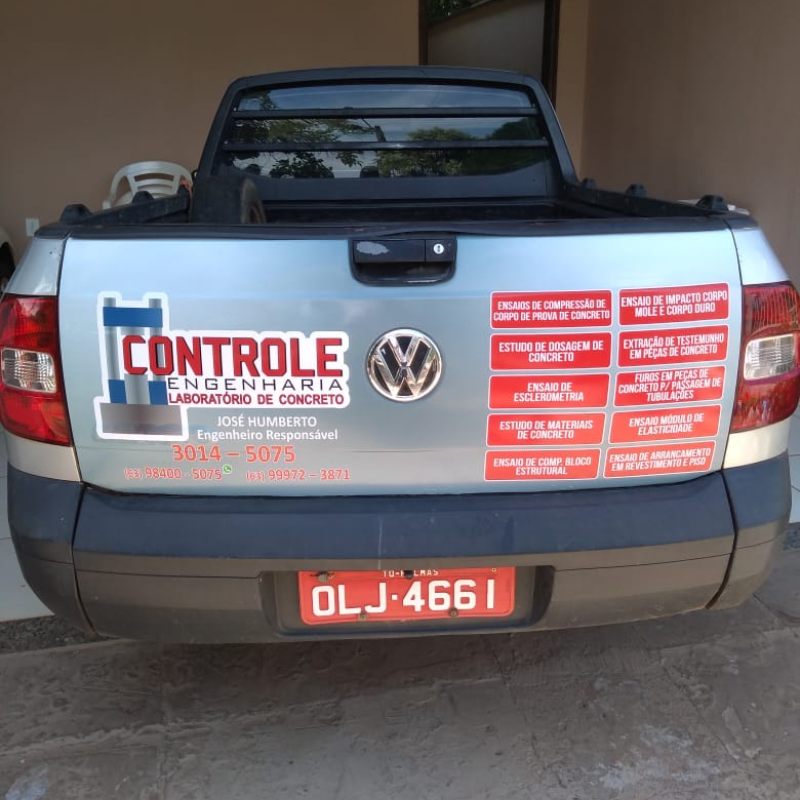
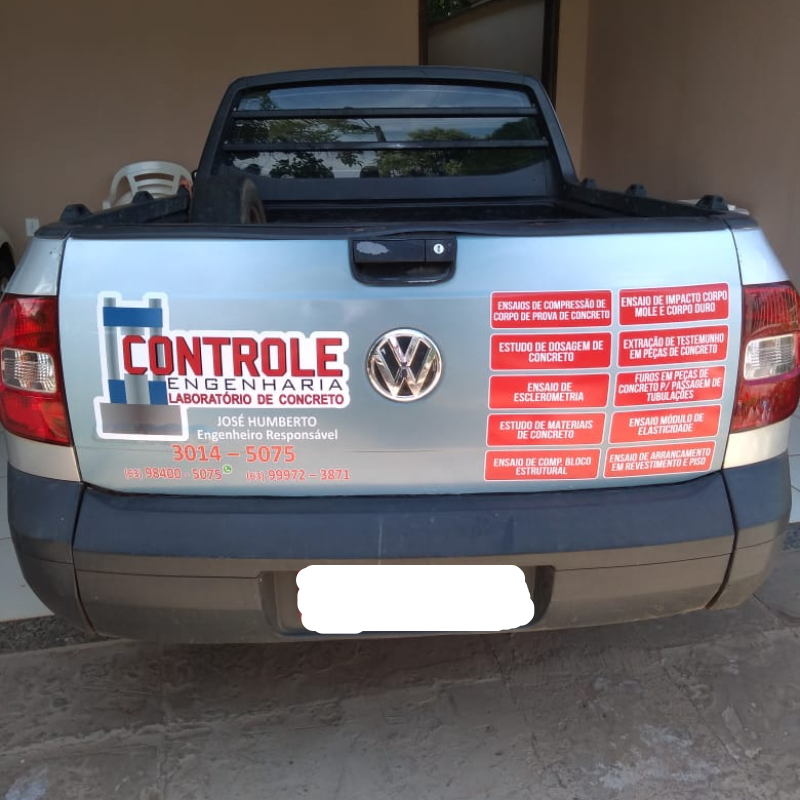
Correções gramaticais no index.html e modificação da imagem do portfolio(carro)

Changed region(s): [[0.3438, 0.6875, 0.6875, 0.8125]]

diff --git a/index.html b/index.html
@@ -90,14 +90,14 @@
                 <p class="lead">Conta com uma equipe de profissionais na área de controle tecnológico
                     e concreto em geral</p>
                 
-                <p class="lead">Está no mercado de trabalho a mais de 10 anos</p>
+                <p class="lead">Está no mercado de trabalho há mais de 10 anos</p>
             </div>
             <div class="col-lg-4 mr-auto">
                 <p class="lead">- Ensaio de compressão de corpo de prova<br>
                         - Estudo de dosagem de concreto<br>
                         - Esclerometria<br>
                         - Estudo de materiais de concreto<br>
-                        - Ensaio de compressãao de bloco estrutural<br>
+                        - Ensaio de compressão de bloco estrutural<br>
                         - Extração de testemunho de concreto<br>
                         - Ensaio de arrancamento<br>
                         - Ensaio de impacto de corpo mole e duro<br>
